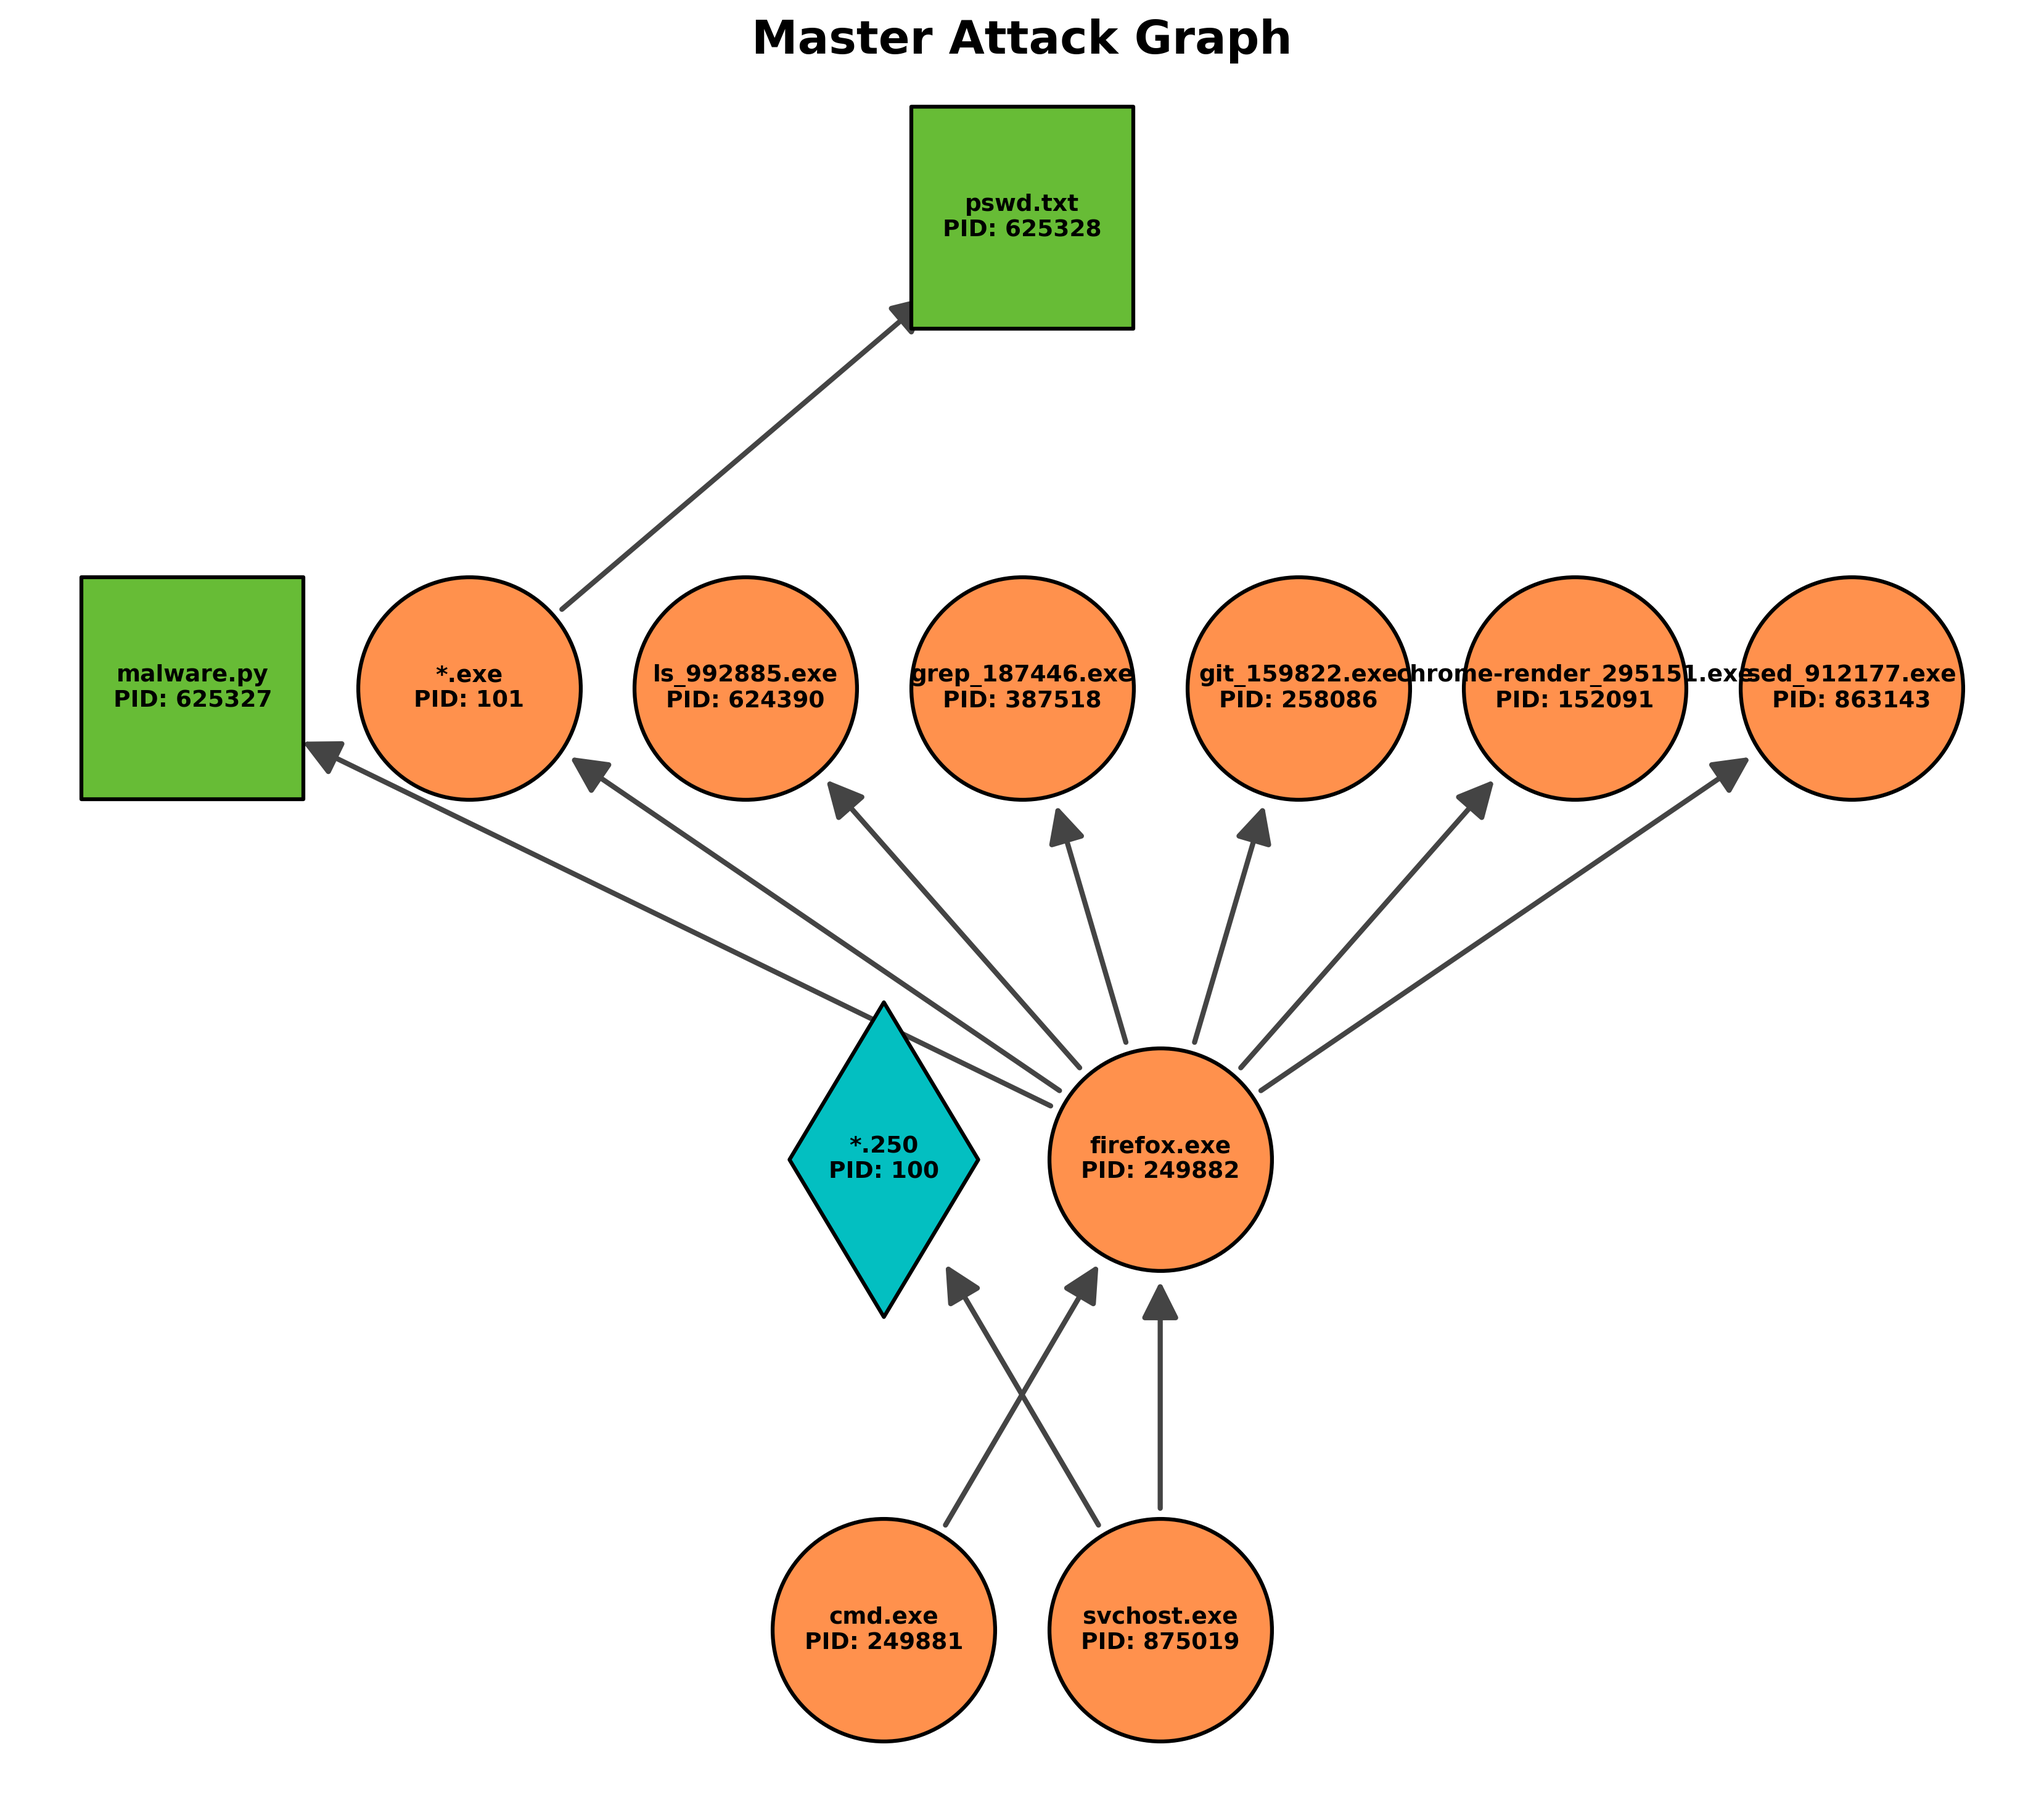
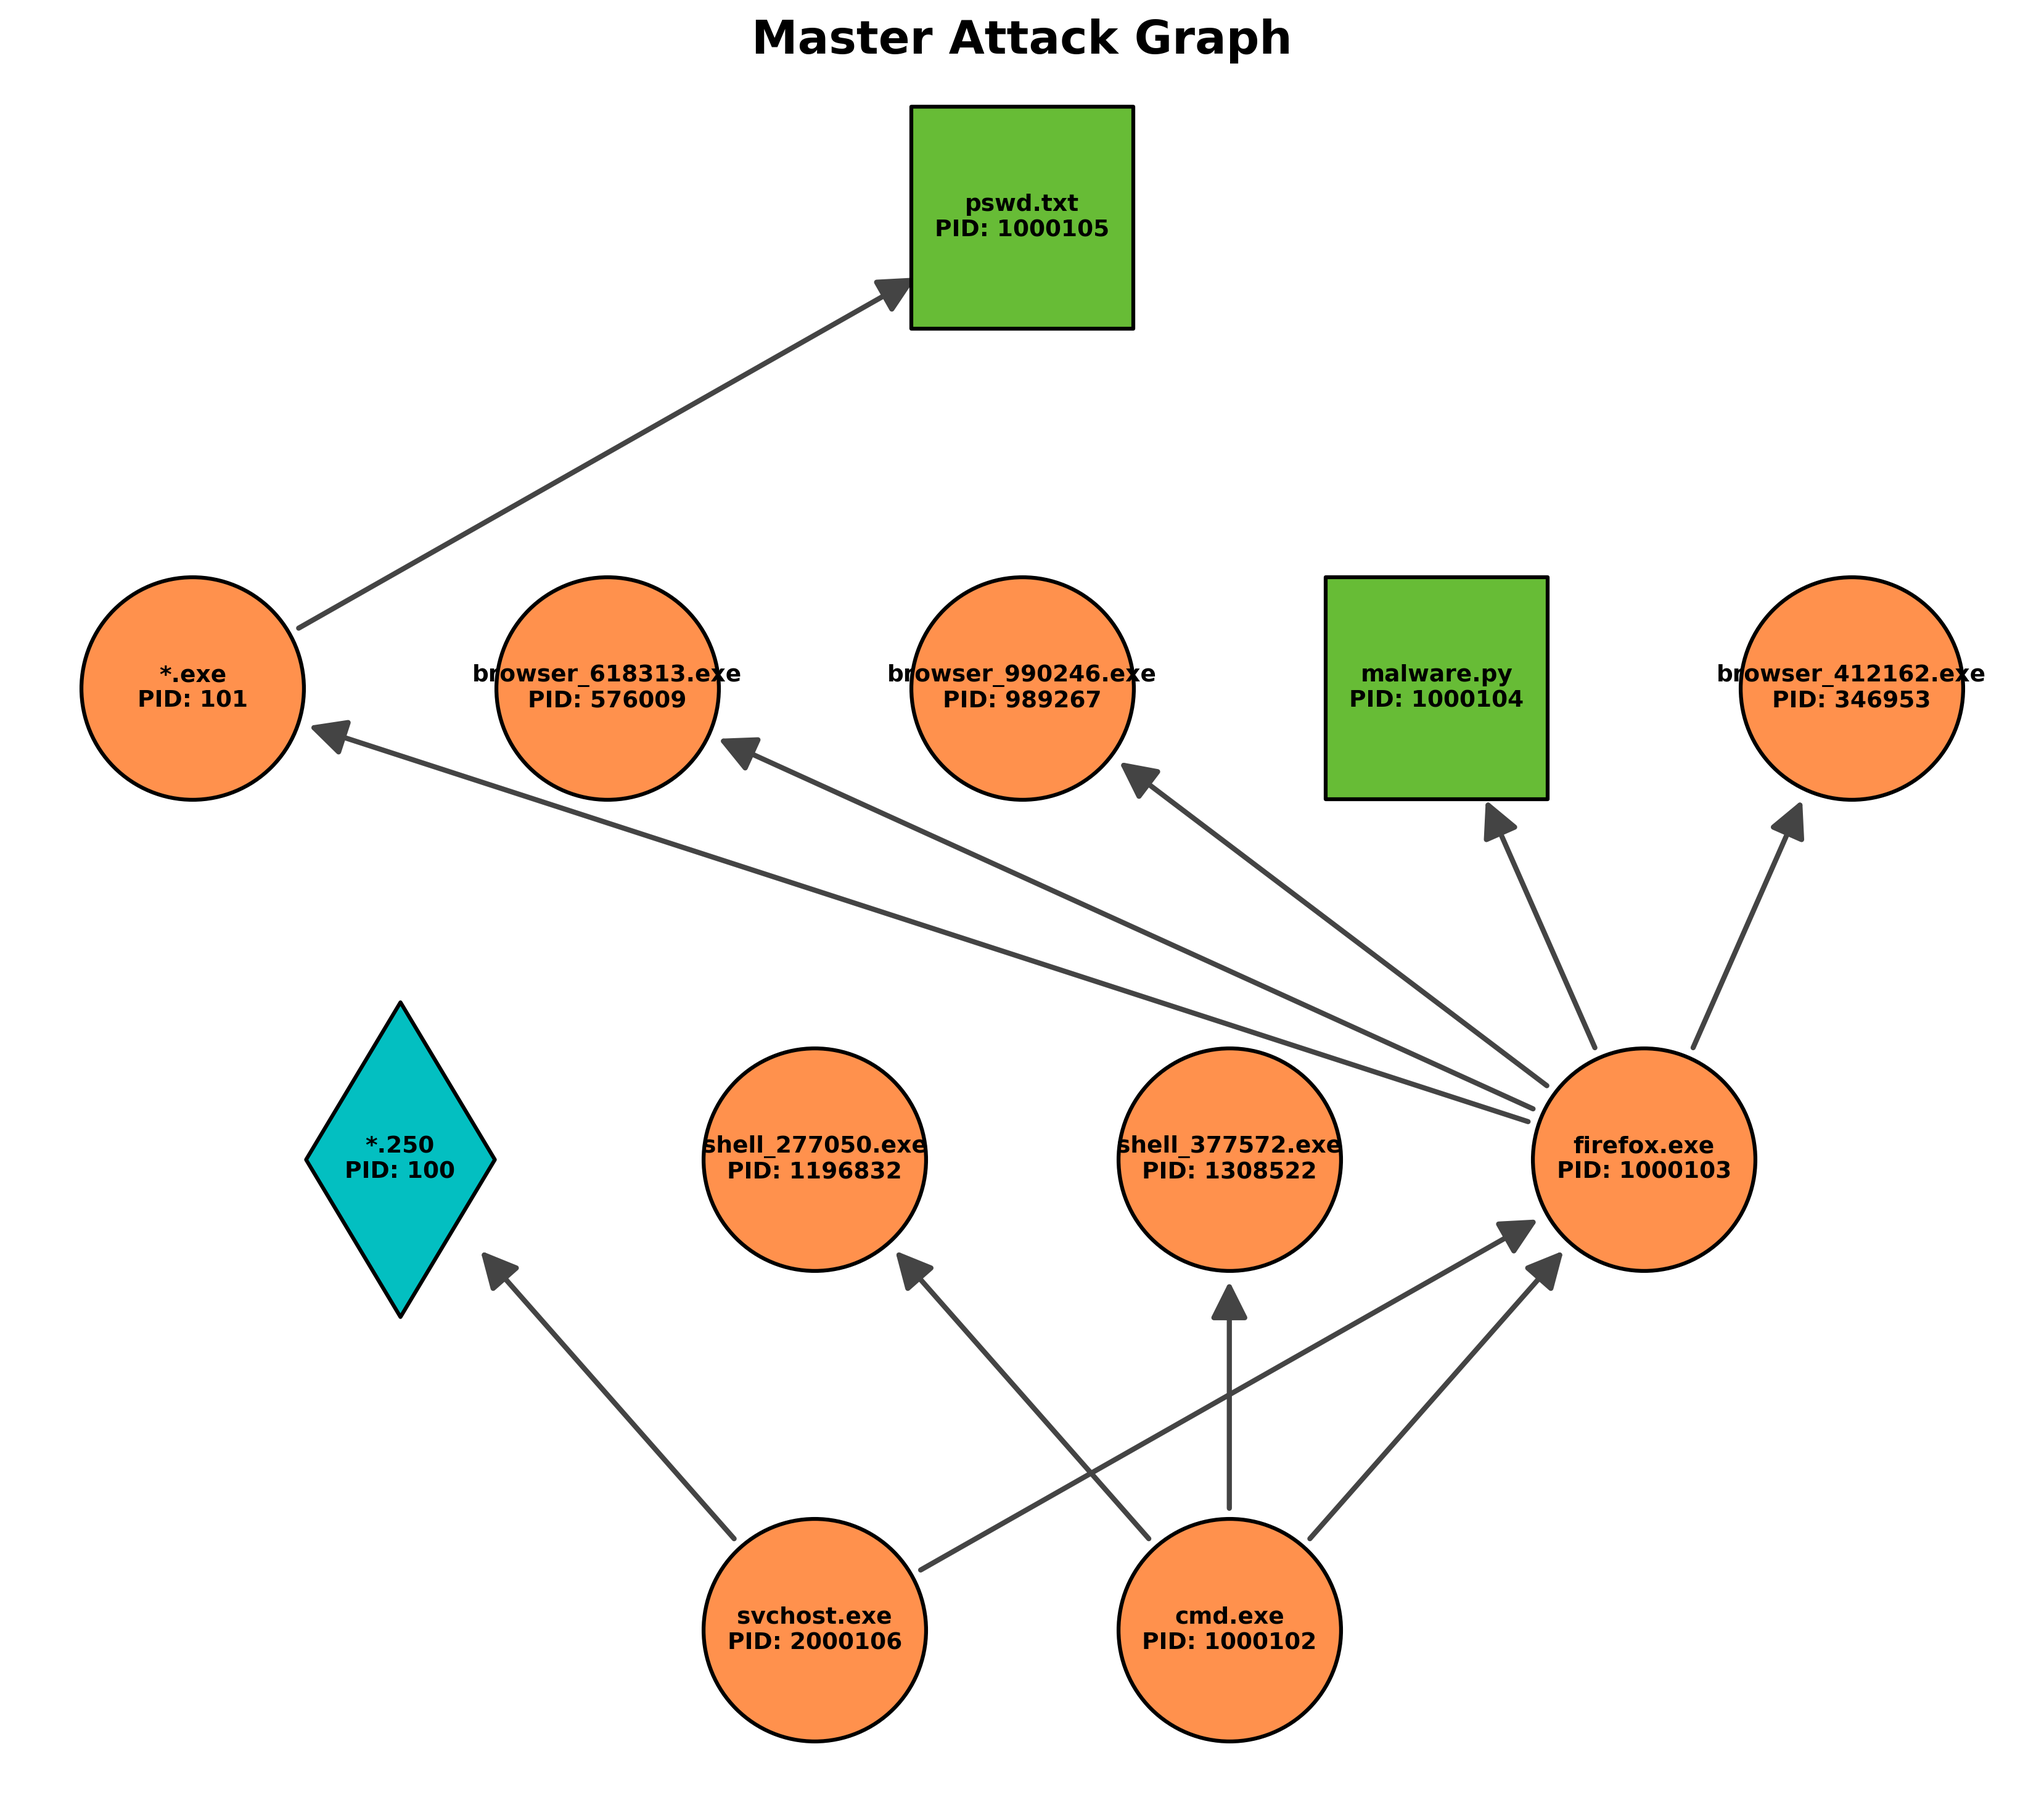
finalize generating larger attack graph (pid 0 0) at beginning and add nodes to cmd.exe too

diff --git a/src/python/generate_larger_data.py b/src/python/generate_larger_data.py
@@ -3,50 +3,61 @@ import matplotlib.pyplot as plt
 import random
 
 def generate_ids_research_pipeline():
-    master = nx.DiGraph()
+    attack_graph = nx.DiGraph()
     core_edges = [
         ("svchost.exe", "firefox.exe"), ("cmd.exe", "firefox.exe"), 
         ("firefox.exe", "*.exe"), ("*.exe", "pswd.txt"), 
         ("svchost.exe", "*.250"), ("firefox.exe", "malware.py")
     ]
-    master.add_edges_from(core_edges)
+    attack_graph.add_edges_from(core_edges)
 
-    # --- add 1,000,000 benign processes ---
-    noise_pool = ["ls", "grep", "vim", "python", "git", "awk", "sed", "chrome-render"]
+    # --- inject 2,000,000 benign processes (firefox and cmd.exe) ---
     for i in range(1000000):
-        noise_proc = f"{random.choice(noise_pool)}_{i}.exe"
-        master.add_edge("firefox.exe", noise_proc)
+        attack_graph.add_edge("firefox.exe", f"browser_{i}.exe")
+        attack_graph.add_edge("cmd.exe", f"shell_{i}.exe")
 
     global_pid_map = {}
     next_pid = 100
-    for node in sorted(master.nodes()):
+    for node in sorted(attack_graph.nodes()):
         global_pid_map[node] = next_pid
         next_pid += 1
     inv_pid_map = {v: k for k, v in global_pid_map.items()}
 
     mined_graph = nx.DiGraph()
-    parents = [n for n, d in master.out_degree() if d > 0]
+    parents = [n for n, d in attack_graph.out_degree() if d > 0]
     target_names = ["malware.py", "pswd.txt"]
+    
+    log_entries = []
 
-    for i, parent_name in enumerate(parents):
+    # add (PID 0 0) for each root to beginning of log
+    for parent_name in parents:
         parent_pid = global_pid_map[parent_name]
-        subtree_logs = []
-        for child_name in master.successors(parent_name):
+        log_entries.append((parent_pid, 0, 0))
+
+    for parent_name in parents:
+        parent_pid = global_pid_map[parent_name]
+        for child_name in attack_graph.successors(parent_name):
             child_pid = global_pid_map[child_name]
             mined_graph.add_edge(parent_pid, child_pid)
+            
             is_seed = 1 if child_name in target_names else 0
-            subtree_logs.append((child_pid, parent_pid, is_seed))
-        
-        filename = f"data/larger_subtree_{i+1}_{parent_name}.log"
-        with open(filename, "w") as f:
-            for pid, ppid, s in sorted(subtree_logs):
-                f.write(f"{pid} {ppid} {s}\n")
-        print(f"Generated: {filename} ({len(subtree_logs)} entries)")
+            log_entries.append((child_pid, parent_pid, is_seed))
 
-    return master, mined_graph, global_pid_map, inv_pid_map, target_names
+    init_entries = [e for e in log_entries if e[1] == 0]
+    stream_entries = sorted([e for e in log_entries if e[1] != 0])
+    
+    final_log_path = "data/big_log.txt"
+    with open(final_log_path, "w") as f:
+        for pid, ppid, s in init_entries:
+            f.write(f"{pid} {ppid} {s}\n")
+        for pid, ppid, s in stream_entries:
+            f.write(f"{pid} {ppid} {s}\n")
+            
+    print(f"Generated unified log: {final_log_path} with {len(log_entries)} entries.")
 
-def save_plots(master, mined_graph, global_pid_map, inv_pid_map, target_names):
+    return attack_graph, mined_graph, global_pid_map, inv_pid_map, target_names
 
+def save_plots(attack_graph, mined_graph, global_pid_map, inv_pid_map, target_names):
     def get_node_style(name):
         if name in target_names: return '#67bc36', 's'
         elif name == "*.250": return '#03bfc1', 'd'
@@ -54,39 +65,29 @@ def save_plots(master, mined_graph, global_pid_map, inv_pid_map, target_names):
 
     def draw_styled_graph(G, pid_lookup, ax=None, is_master=False):
         H = G.copy()
-        
         try:
             roots = [n for n, d in H.in_degree() if d == 0]
             for root in roots:
                 lengths = nx.single_source_shortest_path_length(H, root)
-                for node, dist in lengths.items():
-                    H.nodes[node]['subset'] = dist
-            
+                for node, dist in lengths.items(): H.nodes[node]['subset'] = dist
             for node in H.nodes():
-                if 'subset' not in H.nodes[node]:
-                    H.nodes[node]['subset'] = 0
-                    
+                if 'subset' not in H.nodes[node]: H.nodes[node]['subset'] = 0
             pos = nx.multipartite_layout(H, subset_key="subset", align='horizontal')
         except:
             pos = nx.spring_layout(H, k=1.5, seed=42)
 
-        labels = {}
         for node in H.nodes():
             name = node if is_master else pid_lookup[node]
             pid = pid_lookup[node] if is_master else node
             color, shape = get_node_style(name)
-            labels[node] = f"{name}\nPID: {pid}"
-            
-            nx.draw_networkx_nodes(H, pos, ax=ax, nodelist=[node], 
-                                   node_color=color, node_shape=shape, 
-                                   node_size=7500, edgecolors='black', linewidths=1.5)
-        
-        nx.draw_networkx_labels(H, pos, ax=ax, labels=labels, font_size=9, font_weight='bold')
+            nx.draw_networkx_nodes(H, pos, ax=ax, nodelist=[node], node_color=color, 
+                                   node_shape=shape, node_size=7500, edgecolors='black', linewidths=1.5)
+            nx.draw_networkx_labels(H, pos, ax=ax, labels={node: f"{name}\nPID: {pid}"}, font_size=9, font_weight='bold')
         nx.draw_networkx_edges(H, pos, ax=ax, node_size=9000, arrowsize=30, width=2, edge_color='#444444')
 
     core_nodes = ["svchost.exe", "firefox.exe", "cmd.exe", "*.exe", "pswd.txt", "*.250", "malware.py"]
-    viz_noise = random.sample([n for n in master.nodes() if "_" in n], 5) # limit to 5 extra nodes
-    viz_master = master.subgraph(core_nodes + viz_noise)
+    viz_noise = random.sample([n for n in attack_graph.nodes() if "_" in n], 5)
+    viz_master = attack_graph.subgraph(core_nodes + viz_noise)
 
     plt.figure(figsize=(14, 12))
     draw_styled_graph(viz_master, global_pid_map, is_master=True)
@@ -97,23 +98,19 @@ def save_plots(master, mined_graph, global_pid_map, inv_pid_map, target_names):
 
     parents = ["svchost.exe", "firefox.exe", "cmd.exe", "*.exe"]
     fig, axes = plt.subplots(1, len(parents), figsize=(36, 12))
-
     for i, p_name in enumerate(parents):
         p_pid = global_pid_map[p_name]
-        all_children = list(master.successors(p_name))
-        viz_children = [c for c in all_children if "_" not in c] + [c for c in all_children if "_" in c][:2]
+        all_children = list(attack_graph.successors(p_name))
+        viz_children = [c for c in all_children if "_" not in c] + [c for c in all_children if "_" in c][:3]
         star_nodes = [p_pid] + [global_pid_map[c] for c in viz_children]
         subtree = mined_graph.subgraph(star_nodes)
-        
         draw_styled_graph(subtree, inv_pid_map, ax=axes[i], is_master=False)
         axes[i].set_title(f"Subtree {i+1}: {p_name}", fontsize=16, fontweight='bold')
         axes[i].axis('off')
 
-    plt.suptitle("Mined Attack Trees", fontsize=24, fontweight='bold', y=0.98)
     plt.savefig("data/larger_attack_trees.png", dpi=300, bbox_inches='tight')
     plt.close()
 
 if __name__ == "__main__":
     m, mg, gpm, ipm, tn = generate_ids_research_pipeline()
     save_plots(m, mg, gpm, ipm, tn)
-    print("Graphs and logs generated successfully.")
